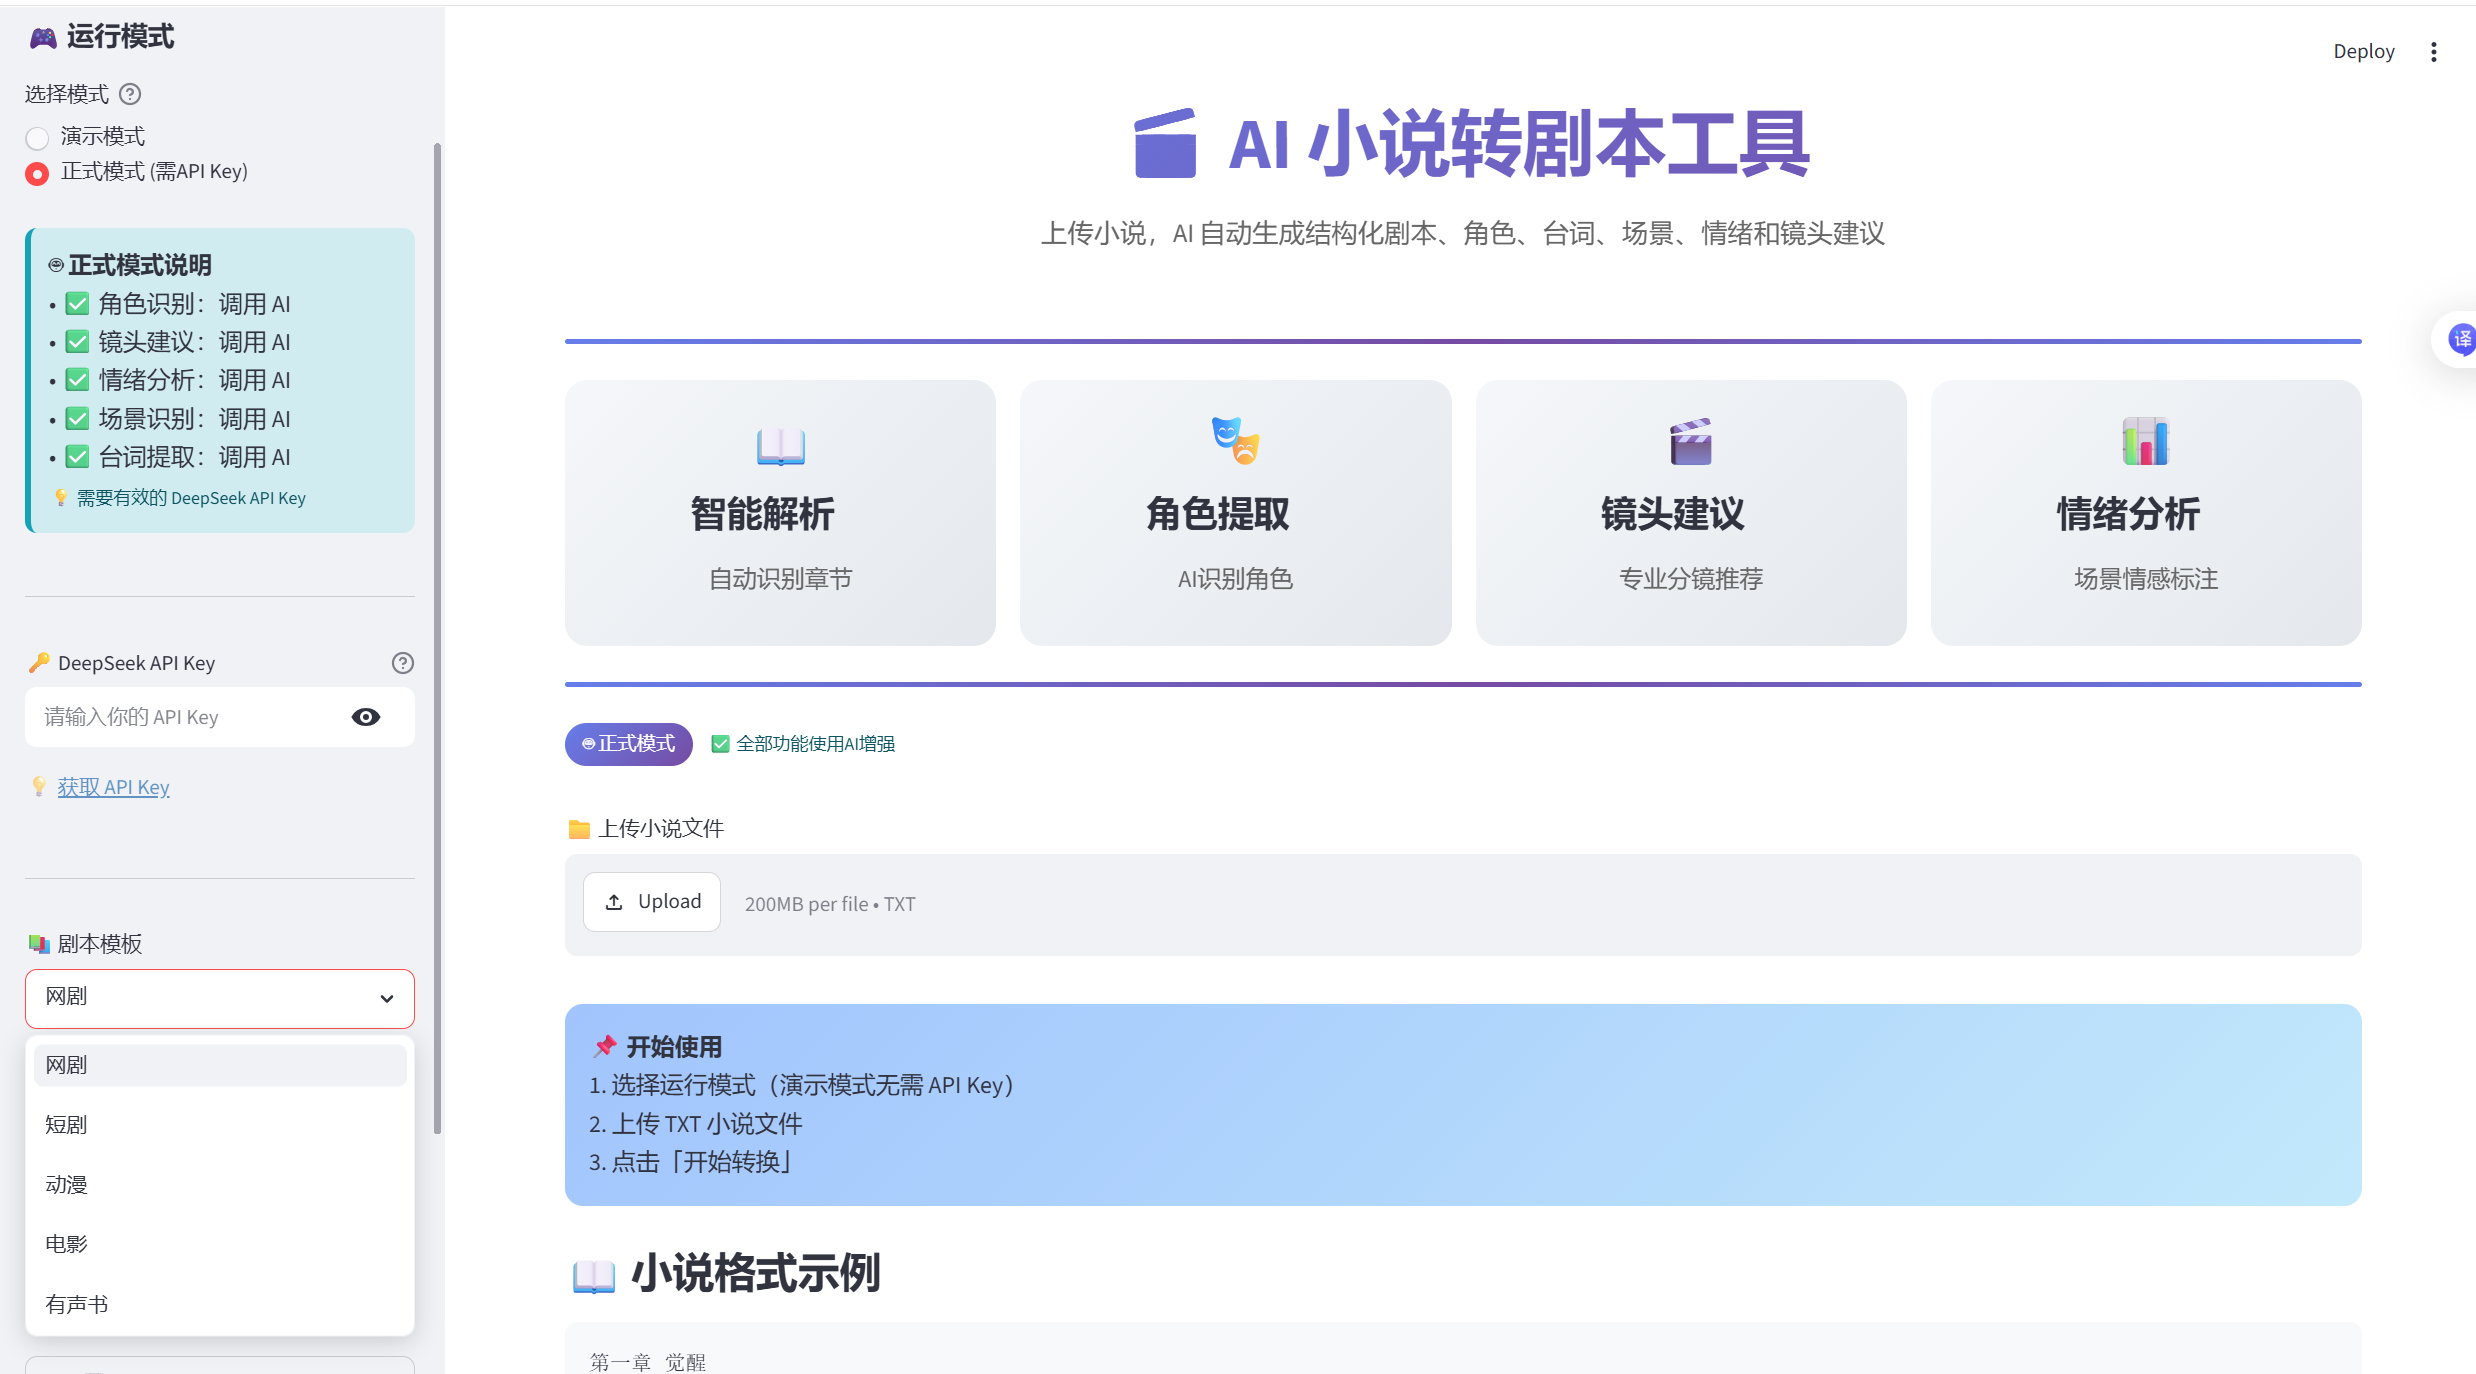
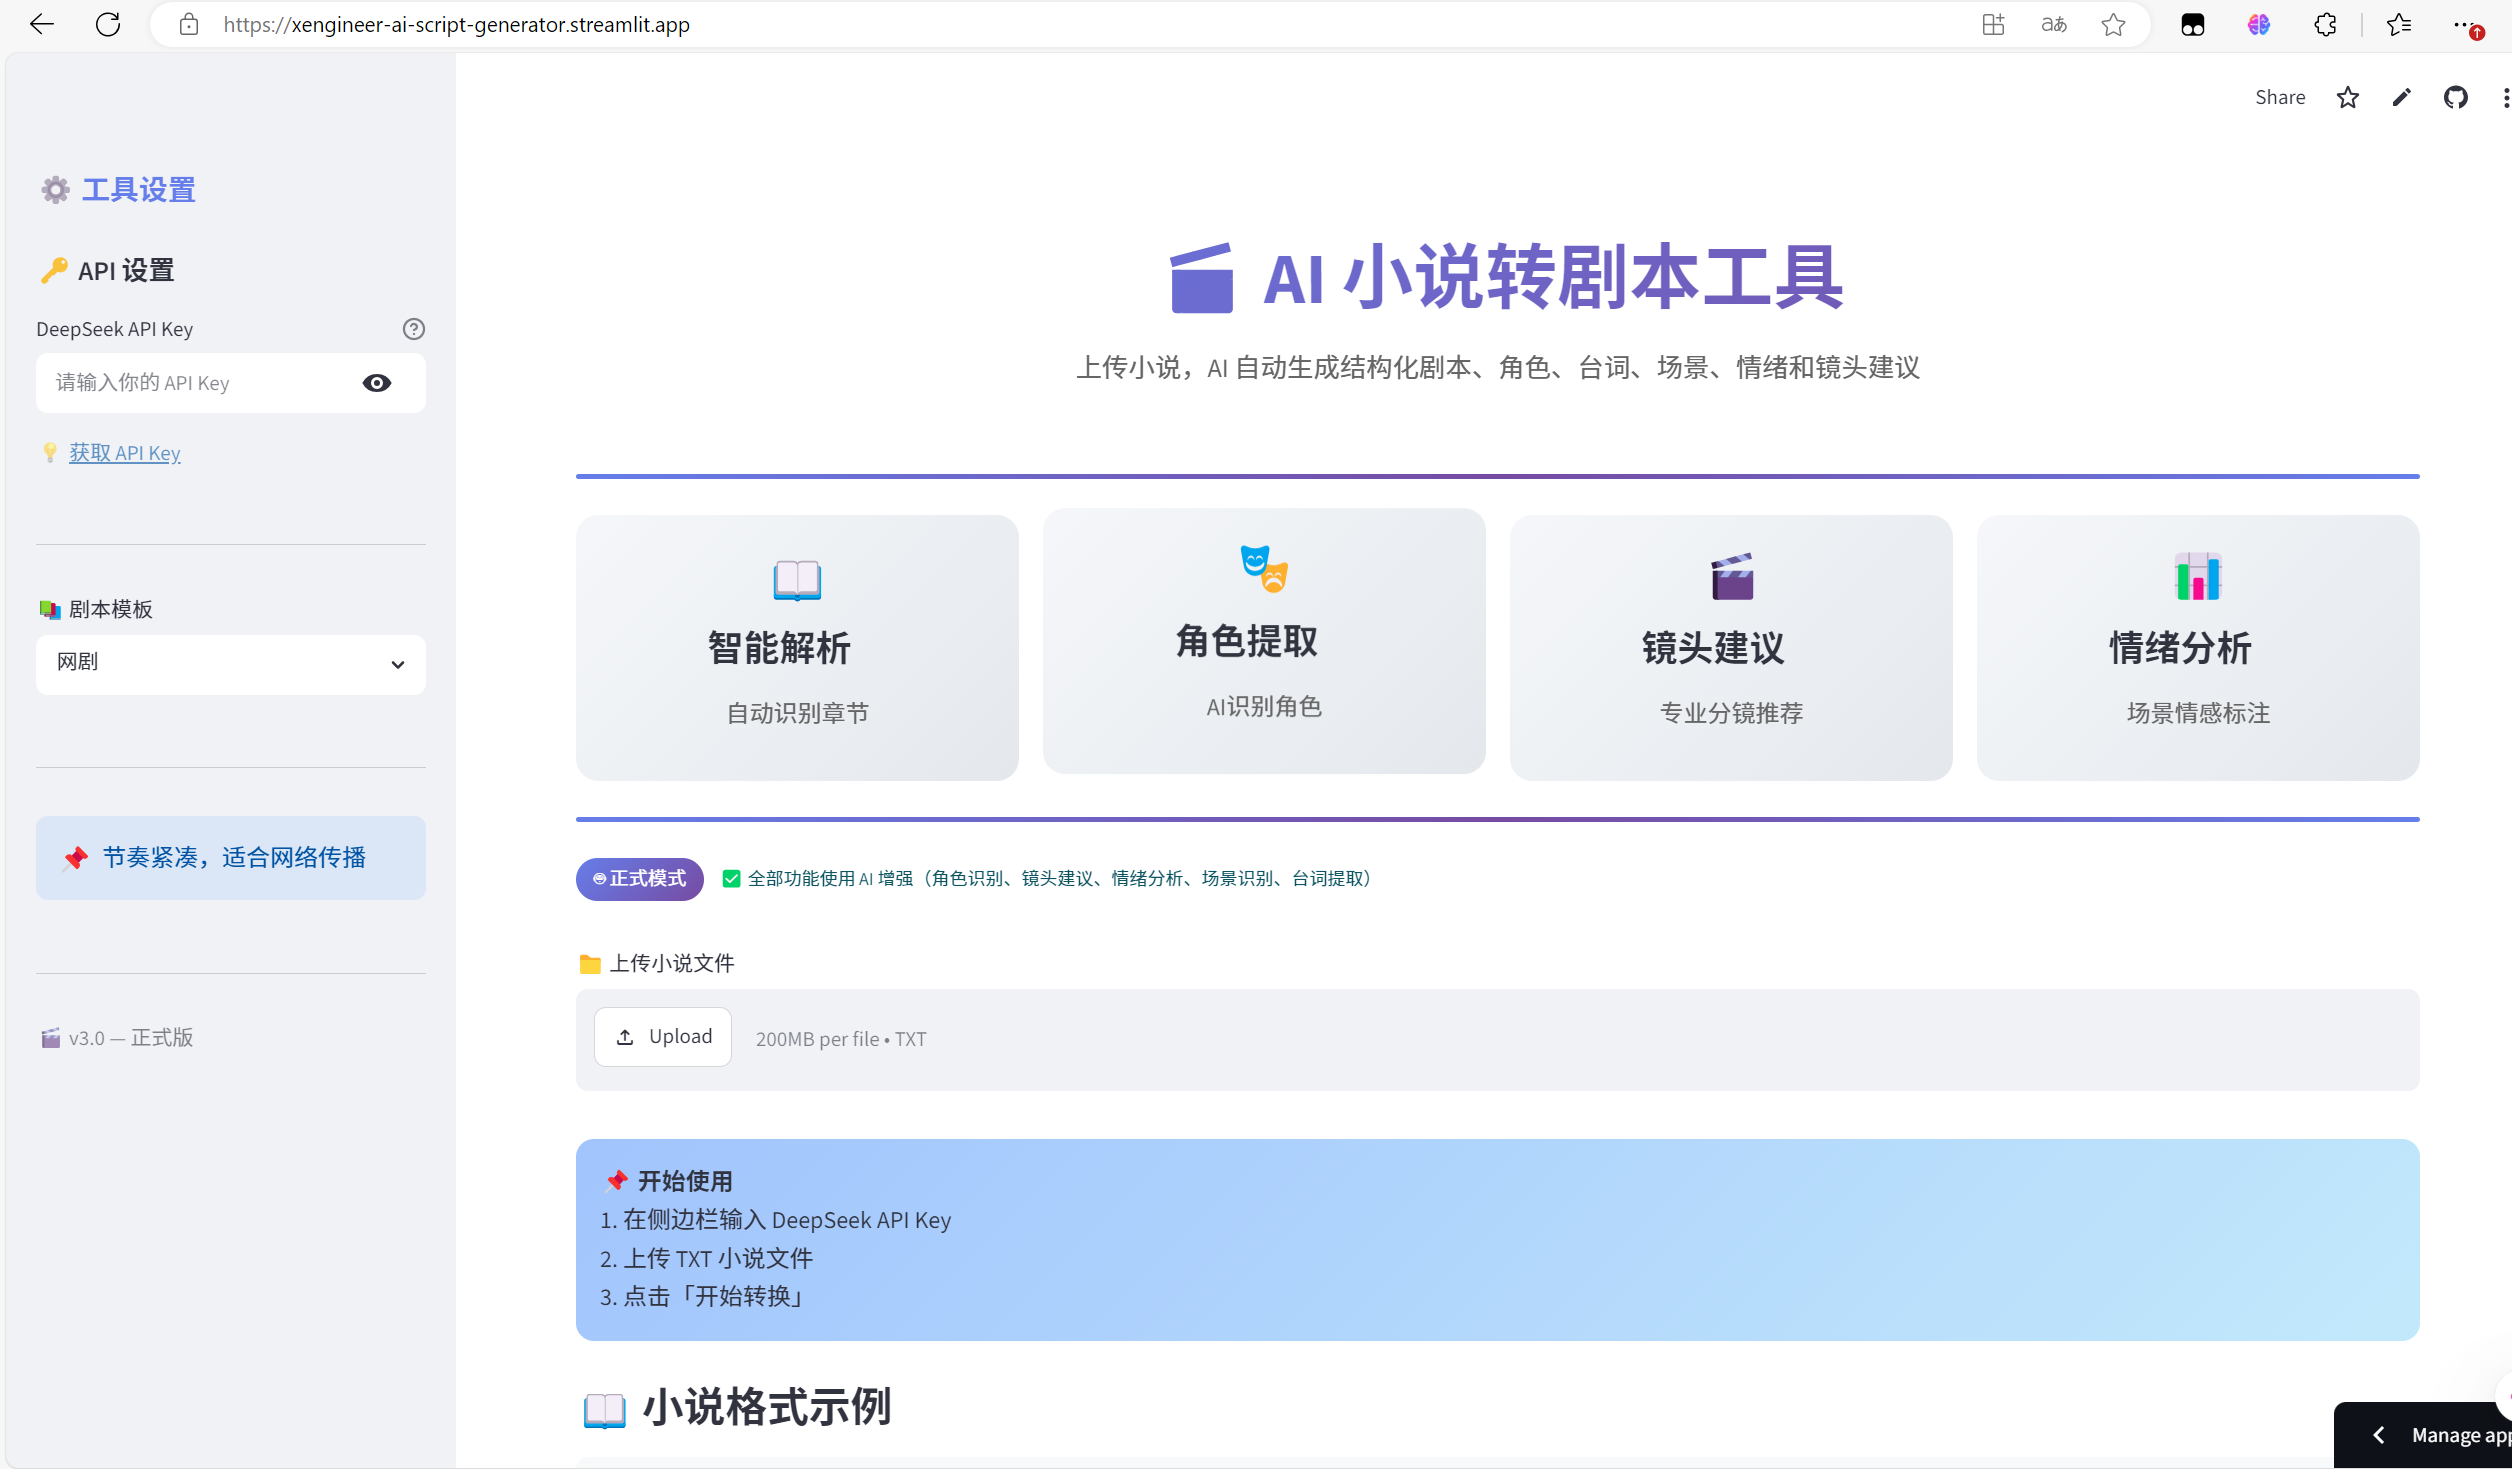
Update README with demo video link and new features

diff --git a/README.md b/README.md
@@ -19,6 +19,12 @@
 ```text
 https://xengineer-ai-script-generator.streamlit.app/
 ```
+ 🎬 Demo 演示视频
+
+📺 在线演示：
+
+[点击观看 Demo 视频](https://www.bilibili.com/video/BV1DtE46CEJe?vd_source=42a4e1a54b5c7bca2fa1103c1473d617)
+
 
 🖥️ 系统截图
 